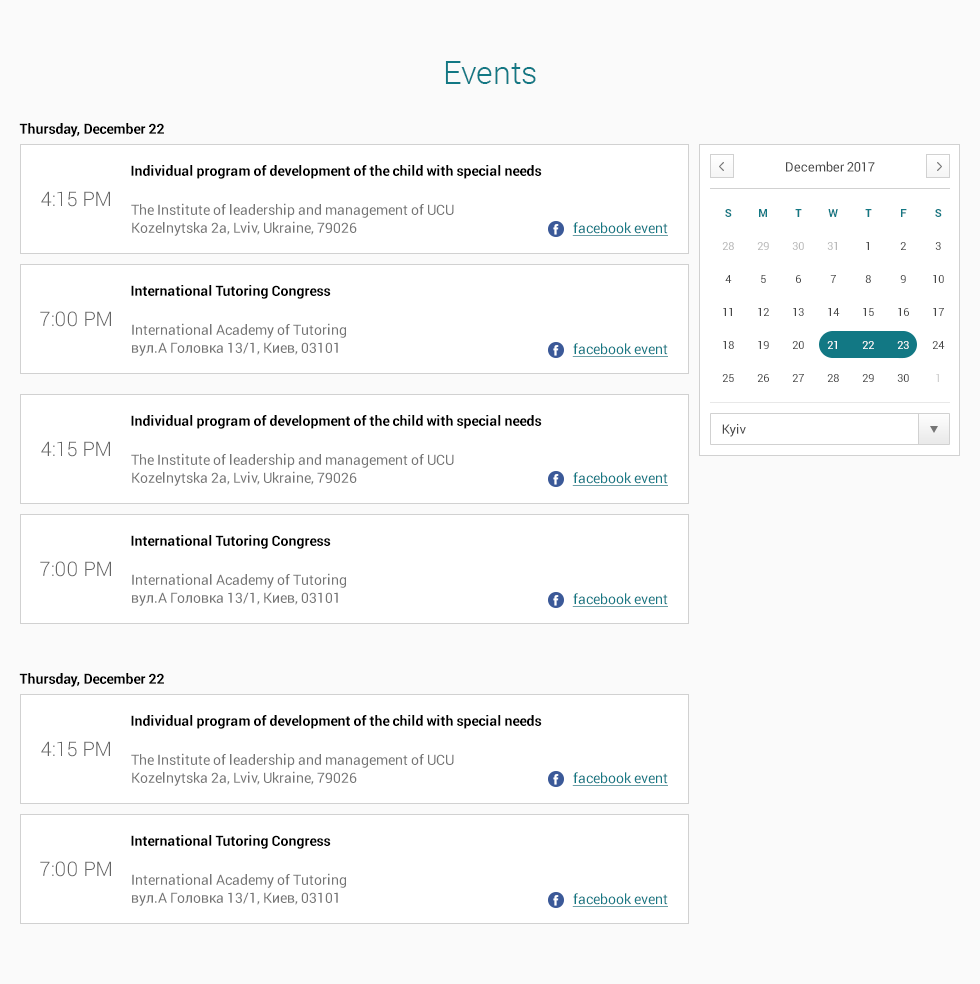
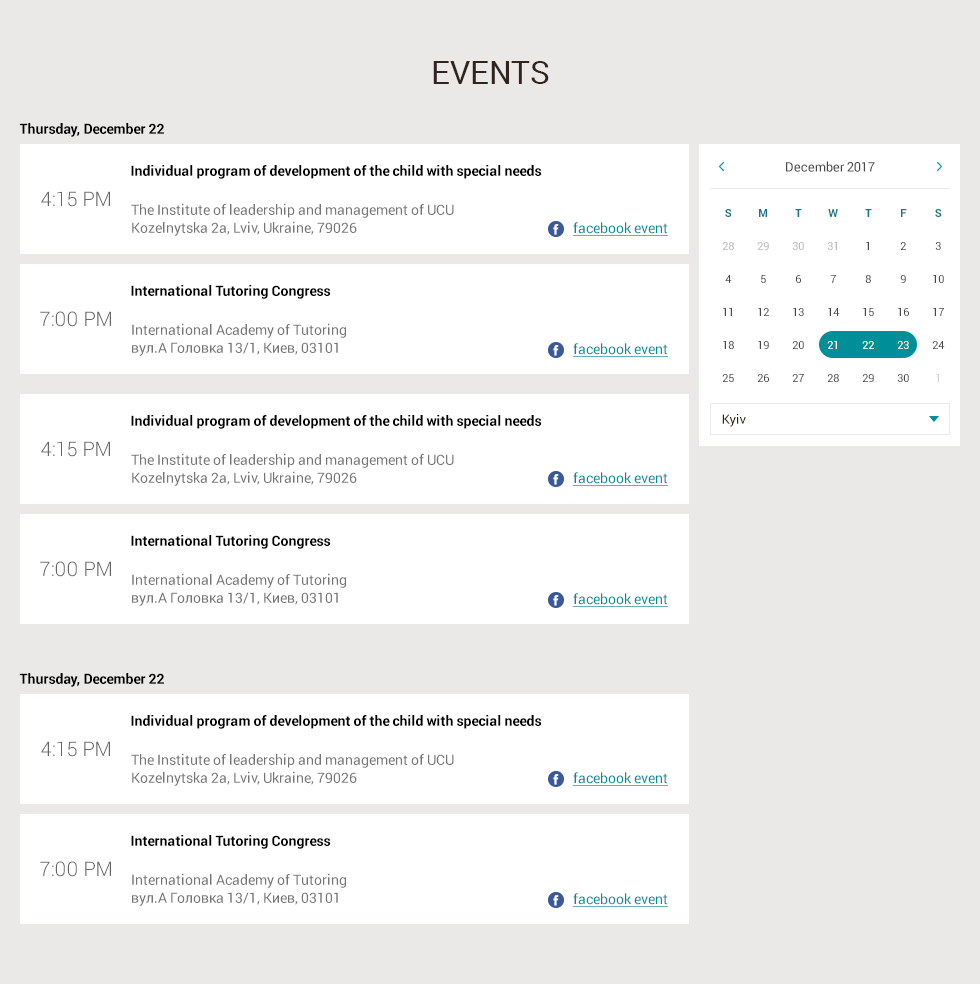
design change

diff --git a/src/styles/style.css b/src/styles/style.css
@@ -9,12 +9,12 @@
 
 .block01 {
 	height: 90px;
-	background-image: url('/images/Special-Portal_04.png');
+	background-image: url('images/Special-Portal_04.png');
 }
 
 .block02 {
-	height: 670px;
-	background-color: rgb(250, 250, 250);
+	height: 739px;
+	background-color: rgb(234, 233, 231);
 	background-image: url('images/Special-Portal_06.png');
 }
 
@@ -25,17 +25,17 @@
 
 .block04 {
 	height: 984px;
-	background-color: rgb(250, 250, 250);
+	background-color: rgb(234, 233, 231);
 	background-image: url('images/Special-Portal_08.png');
 }
 
 .block05 {
-	height: 621px;
+	height: 573px;
 	background-image: url('images/Special-Portal_09.png');
 }
 
 .block06 {
-	height: 110px;
-	background-color: rgb(250, 250, 250);
+	height: 131px;
+	background-color: rgb(234, 233, 231);
 	background-image: url('images/Special-Portal_10.png');
 }
